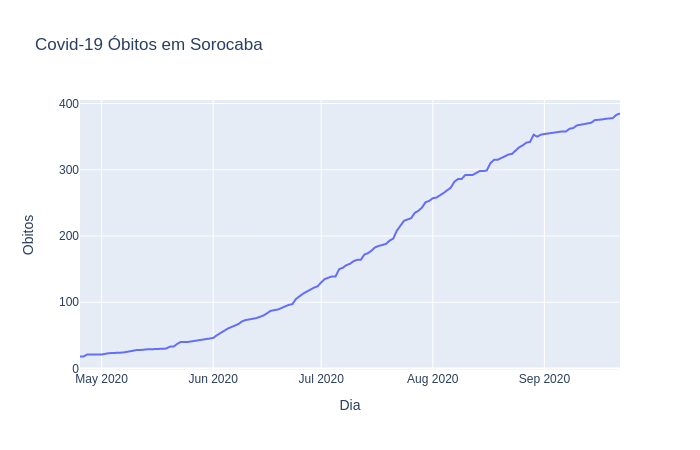
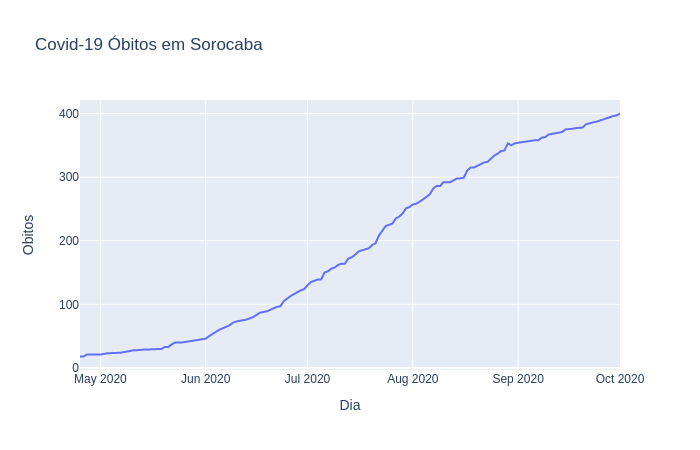
dados atualizados 01/10

diff --git a/README.md b/README.md
@@ -1,5 +1,5 @@
 ## Dados divulgados pela Prefeitura de Sorocaba sobre os casos de Covid-19
-### última atualização: 22/09/2020
+### última atualização: 01/10/2020
 
 Há uma planilha com os dados retirados das imagens divulgadas [AQUI](https://github.com/lucas-koiti/covid19-sorocaba/blob/master/dados/planilha_csv/dados.csv).
 
